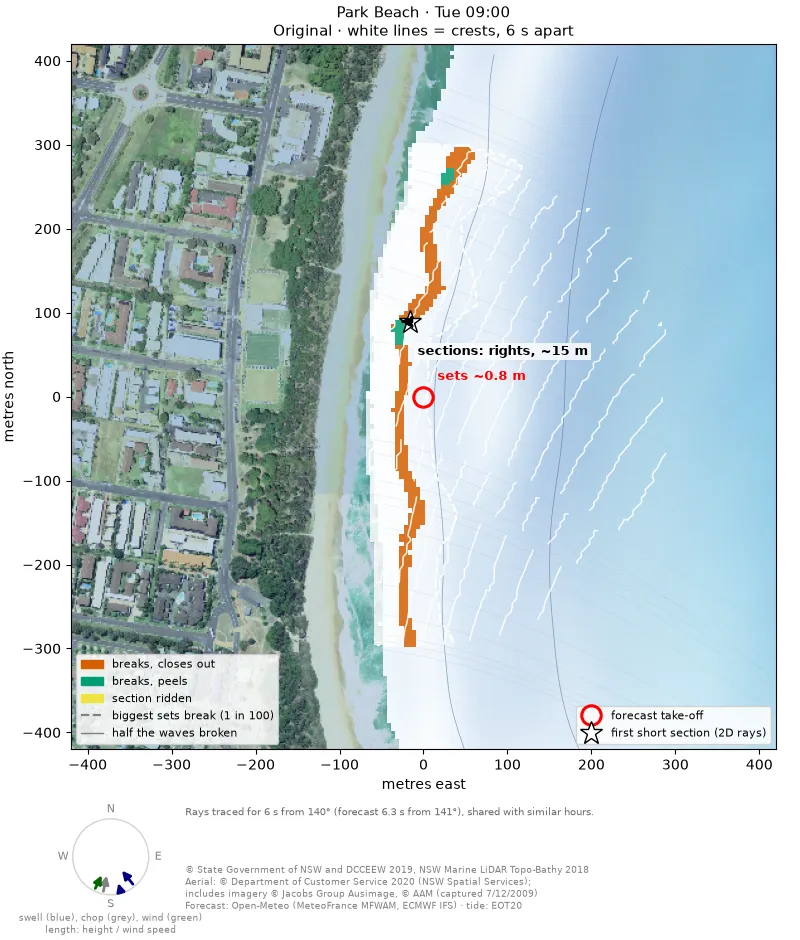
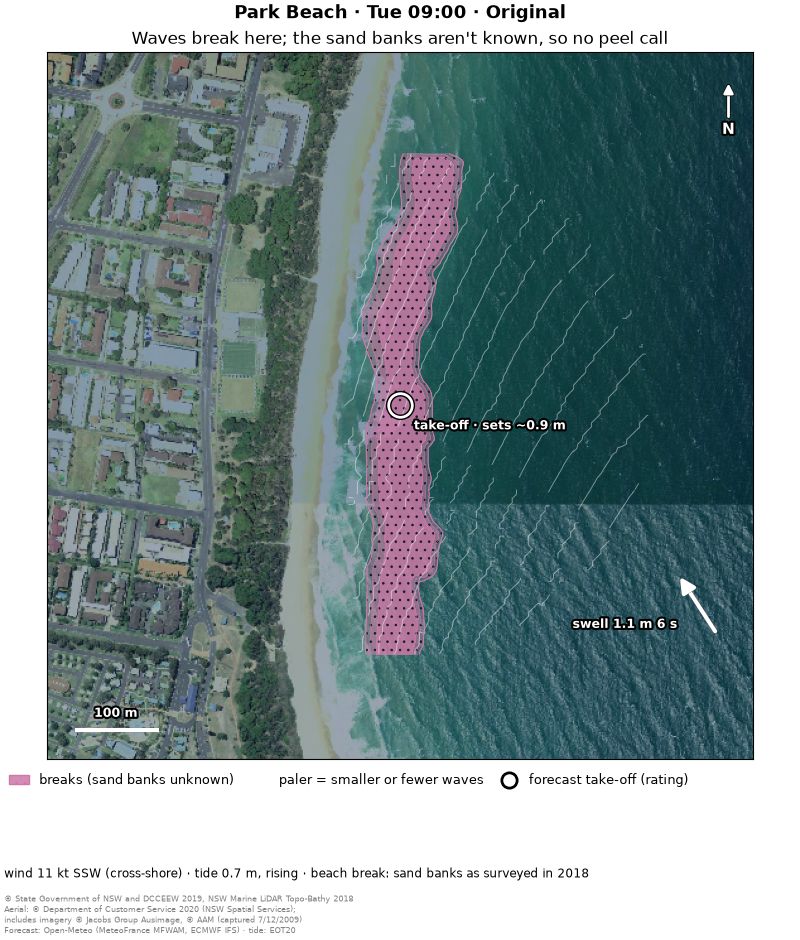
Where it breaks: the readable map design, its legend, and the physics view
Mullaway and Park Beach redrawn for Tue 17 Nov 9am in the new design (peels,
sections, close-outs, beach breaks with no peel call), the legend rewritten to
match, the old crest map shown as the physics view, and the new map pasted into
the iPad break-page shot.

diff --git a/layouts/where-it-breaks.html b/layouts/where-it-breaks.html
@@ -4,28 +4,28 @@
     <div class="hero-copy">
       <p class="eyebrow">Where it breaks</p>
       <h1>See the waves <span>before you paddle out.</span></h1>
-      <p class="lede">Every daylight hour at every break comes with a map of where the waves are expected to break. StokeRanker follows the forecast swell in over a laser survey of the seabed, so you can see where it peels, where it closes out, and where to sit.</p>
+      <p class="lede">Every daylight hour at every break comes with a map of where the waves are expected to break. StokeRanker follows the forecast swell in over a laser survey of the seabed, so you can see where it peels, which way, how far you’d ride, and where it closes out.</p>
       <div class="actions">{{ partial "cta.html" "Get early access ↗" }}<a class="ghost" href="#how">How it’s drawn <span aria-hidden="true">→</span></a></div>
       <ul class="chips" aria-label="At a glance"><li>All 17 breaks</li><li>Every daylight hour, 3 days ahead</li><li>Real wave physics</li></ul>
     </div>
     <figure class="hero-map">
-      {{ partial "map.html" (dict "name" "mullaway-tue-9am-sat" "width" 560 "eager" true "alt" "Wave map of Mullaway for Tuesday at 9am: white crest lines bend around the headland, orange marks where waves close out, and bluish-green sections peel off the point and along the beach. Sets about 0.7 m, short sections of rights.") }}
-      <figcaption>Mullaway, Tuesday 9am: sections peel off the point.</figcaption>
+      {{ partial "map.html" (dict "name" "mullaway-tue-9am-sat" "width" 560 "eager" true "alt" "Wave map of Mullaway for Tuesday at 9am on the aerial photo: a solid blue band where rights peel off the point for about 90 m, two shorter blue stretches up the beach, a left of about 40 m and a right of about 50 m, and hatched orange where most of the beach closes out. White arrows show the way each stretch peels, the forecast take-off is ringed at the point with sets about 0.7 m, and the swell arrow reads 1.1 m at 6 s.") }}
+      <figcaption>Mullaway, Tuesday 9am: rights peel off the point for up to about 90 m.</figcaption>
     </figure>
   </div>
   {{ partial "waves.html" . }}
 </section>
 
 <section class="section wrap">
-  <div class="section-heading centered"><p class="eyebrow">Same swell. Different beach.</p><h2>One swell, two stories.</h2><p>Tuesday at 9am, the same 6-second south-easterly reaches both beaches. Park Beach’s straight banks meet the crests nearly square on, so most of it closes out. At Mullaway the swell bends around the headland, and sections peel.</p></div>
+  <div class="section-heading centered"><p class="eyebrow">Same swell. Different beach.</p><h2>One swell, two stories.</h2><p>Tuesday at 9am, the same 6-second south-easterly reaches both beaches. At Mullaway it bends around the rocky point, and rights peel off it while the beach beside it closes out. Park Beach is open sand: the map shows where it breaks, but its banks move after every big swell, so it doesn’t guess which way they peel.</p></div>
   <div class="map-pair">
     <figure class="map-card">
-      {{ partial "map.html" (dict "name" "park-beach-tue-9am-sat" "width" 500 "alt" "Wave map of Park Beach for Tuesday at 9am: a long orange band along the beach where the waves close out, with only two short bluish-green peeling sections. Sets about 0.8 m.") }}
-      <figcaption><strong>Park Beach</strong> Almost all orange: it closes out along the beach.</figcaption>
+      {{ partial "map.html" (dict "name" "park-beach-tue-9am-sat" "width" 500 "alt" "Wave map of Park Beach for Tuesday at 9am: a dotted purple band along the beach where the waves break, with no peel call because the sand banks aren’t known. The forecast take-off is ringed in the middle, sets about 0.9 m.") }}
+      <figcaption><strong>Park Beach</strong> Dotted purple: it breaks along the beach, and the sand banks decide the rest.</figcaption>
     </figure>
     <figure class="map-card">
-      {{ partial "map.html" (dict "name" "mullaway-tue-9am-sat" "width" 500 "alt" "Wave map of Mullaway for Tuesday at 9am: crests wrap around the headland, with bluish-green peeling sections off the point and along the beach to the north.") }}
-      <figcaption><strong>Mullaway</strong> Bluish-green sections: it peels off the point.</figcaption>
+      {{ partial "map.html" (dict "name" "mullaway-tue-9am-sat" "width" 500 "alt" "Wave map of Mullaway for Tuesday at 9am: a solid blue band where rights peel off the point, with arrows showing the way it peels, and hatched orange along the beach where it closes out.") }}
+      <figcaption><strong>Mullaway</strong> Solid blue off the point: it peels. Hatched orange up the beach: it closes out.</figcaption>
     </figure>
   </div>
 </section>
@@ -41,7 +41,7 @@
     <ol class="how-steps">
       <li><span class="step">1</span><h3>Start with the forecast swell.</h3><p>Each hour’s main swell, its period and the direction it comes from, is taken from the marine forecast, out in deep water.</p></li>
       <li><span class="step">2</span><h3>Trace it over the seabed.</h3><p>Wave rays are traced in across a 5 m grid of the NSW Marine LiDAR seabed survey. Waves slow down in shallow water, so they bend towards banks and reefs, growing where they bunch up and shrinking where they spread out.</p></li>
-      <li><span class="step">3</span><h3>Find where it breaks.</h3><p>Where the water gets shallow enough, the waves break. A crest that meets the bank at an angle peels; one that hits it square on closes out. The map marks both, then picks the take-off and the section you’d ride.</p></li>
+      <li><span class="step">3</span><h3>Find where it breaks, and how.</h3><p>Where the water gets shallow enough, the waves break. A crest that meets the bank at an angle peels; one that hits it square on closes out. The map shades each stretch by how well it peels for your kind of surfing, fades it where the waves are small or few, and shows the way it peels and how far you’d ride.</p></li>
     </ol>
   </div>
 </section>
@@ -50,26 +50,45 @@
   <div class="row reverse row-legend">
     <div class="row-copy">
       <p class="eyebrow">Reading the map</p>
-      <h2>Every line means something.</h2>
+      <h2>Blue peels. Hatched closes out.</h2>
+      <p>The band is where surfable waves break, from where the biggest sets first break to where most waves are whitewater.</p>
       <ul class="legend">
-        <li><i class="sw sw-crest" aria-hidden="true"></i><span><strong>White lines</strong> wave crests, one wave period apart</span></li>
-        <li><i class="sw sw-close" aria-hidden="true"></i><span><strong>Orange</strong> breaks and closes out</span></li>
-        <li><i class="sw sw-peel" aria-hidden="true"></i><span><strong>Bluish green</strong> breaks and peels</span></li>
-        <li><i class="sw sw-ride" aria-hidden="true"></i><span><strong>Yellow</strong> the section you’d ride</span></li>
-        <li><i class="sw sw-dash" aria-hidden="true"></i><span><strong>Dashed line</strong> where the biggest sets break, about 1 in 100 waves</span></li>
-        <li><i class="sw sw-thin" aria-hidden="true"></i><span><strong>Thin line</strong> where half the waves have broken</span></li>
-        <li><i class="sw sw-ring" aria-hidden="true"></i><span><strong>Red ring</strong> the take-off the score is worked out for</span></li>
-        <li><i class="sw sw-star" aria-hidden="true">☆</i><span><strong>Star</strong> the first surfable section the map finds</span></li>
+        <li><i class="sw sw-peels" aria-hidden="true"></i><span><strong>Solid blue</strong> it peels</span></li>
+        <li><i class="sw sw-sections" aria-hidden="true"></i><span><strong>Light blue</strong> it peels in sections, between close-outs</span></li>
+        <li><i class="sw sw-closes" aria-hidden="true"></i><span><strong>Hatched orange</strong> it closes out</span></li>
+        <li><i class="sw sw-banks" aria-hidden="true"></i><span><strong>Dotted purple</strong> it breaks on a beach break, where the sand banks aren’t known</span></li>
+        <li><i class="sw sw-pale" aria-hidden="true"></i><span><strong>Paler</strong> smaller or fewer waves</span></li>
+        <li><i class="sw sw-arrow" aria-hidden="true">→</i><span><strong>Arrow</strong> the way it peels, with the ride length</span></li>
+        <li><i class="sw sw-ring" aria-hidden="true"></i><span><strong>Ring</strong> the take-off the score is worked out for</span></li>
       </ul>
-      <p class="small-print">The compass underneath shows the swell in blue, chop in grey, and the wind in green.</p>
+      <p class="small-print">A line across the top sums it up, and the swell arrow shows where the swell comes from, its height, and its period. Colours are from the Okabe-Ito colour-blind-safe palette, with hatching and dots so no meaning rests on colour alone.</p>
     </div>
     <figure class="row-shot map-card big">
-      {{ partial "map.html" (dict "name" "mullaway-tue-9am" "width" 620 "alt" "Mullaway wave map for Tuesday at 9am, with its legend: crests, closing-out and peeling sections, the forecast take-off ring, and the first short section star.") }}
+      {{ partial "map.html" (dict "name" "mullaway-tue-9am" "width" 620 "alt" "Mullaway wave map for Tuesday at 9am, with its title, Rights peel for up to about 90 m, but most of it closes out, and its key: peels, sections, closes out, paler for smaller or fewer waves, the way it peels with ride length, and the forecast take-off ring.") }}
     </figure>
   </div>
 </section>
 
 <section class="section tint">
+  <div class="wrap row">
+    <div class="row-copy">
+      <p class="eyebrow">The physics view</p>
+      <h2>Want the working?</h2>
+      <p>The physics view shows what the map is drawn from: the traced wave crests, the depths, both take-offs, and the numbers behind it. On the web, tap Physics view under the map. In the app, turn your phone sideways.</p>
+      <ul class="legend">
+        <li><i class="sw sw-crest" aria-hidden="true"></i><span><strong>White lines</strong> wave crests, one wave period apart</span></li>
+        <li><i class="sw sw-dash" aria-hidden="true"></i><span><strong>Dashed line</strong> where the biggest sets break, about 1 in 100 waves</span></li>
+        <li><i class="sw sw-thin" aria-hidden="true"></i><span><strong>Thin line</strong> where half the waves have broken</span></li>
+        <li><i class="sw sw-star" aria-hidden="true">☆</i><span><strong>Star</strong> the first surfable section the seabed trace finds</span></li>
+      </ul>
+    </div>
+    <figure class="row-shot map-card">
+      {{ partial "map.html" (dict "name" "mullaway-tue-9am-physics" "width" 720 "alt" "The physics view of Mullaway for Tuesday at 9am: white crest lines bending around the headland, the breaking band with dashed and thin lines, the take-offs, and a side panel of the swell, wind, tide, and ride numbers.") }}
+    </figure>
+  </div>
+</section>
+
+<section class="section">
   <div class="wrap row">
     <div class="row-copy">
       <p class="eyebrow">In the app</p>
@@ -84,14 +103,16 @@
   </div>
 </section>
 
-<section class="section wrap">
+<section class="section tint">
+  <div class="wrap">
   <div class="section-heading centered"><p class="eyebrow">Honest about it</p><h2>A forecast, not a photo.</h2></div>
   <div class="cards three">
-    <article class="card"><p class="kicker">Sand moves</p><h3>Banks shift.</h3><p>The seabed survey is from 2018. Sandbanks move after every big swell, so a bank on the map may have shifted since.</p></article>
+    <article class="card"><p class="kicker">Sand moves</p><h3>Banks shift.</h3><p>The seabed survey is from 2018, and sand banks move after every big swell. So on beach breaks the map shows where waves break but makes no call on peel.</p></article>
     <article class="card"><p class="kicker">Simplified</p><h3>Some things it can’t see.</h3><p>It doesn’t model waves wrapping into the lee of a headland, or currents, so sheltered corners can show less than turns up.</p></article>
     <article class="card"><p class="kicker">Checked</p><h3>Held up against the beach.</h3><p>Photos taken on the beach are marked up and compared with the maps, and the width of the surf zone is checked against satellite passes.</p></article>
   </div>
   <p class="shots-note">Maps show an example forecast for Tuesday 17 November 2026, not current conditions. Seabed: NSW Marine LiDAR Topo-Bathy 2018, © State Government of NSW and DCCEEW 2019. Aerial imagery © Department of Customer Service 2020.</p>
+  </div>
 </section>
 
 {{ partial "access.html" . }}

diff --git a/layouts/home.html b/layouts/home.html
@@ -58,7 +58,7 @@
 <section class="section tint">
   <div class="wrap row">
     <div class="row-copy"><p class="eyebrow">Every score has its reasons</p><h2>Open a break, see the working.</h2><p>Wave height at the take-off, wind, tide, and every swell in the water, the best session each day, and a map of where the waves are expected to break: wave crests traced in from the forecast swell over local seabed data.</p><a class="more" href="{{ "/where-it-breaks/" | relURL }}">How the wave maps are drawn <span aria-hidden="true">→</span></a></div>
-    <figure class="row-shot">{{ partial "device.html" (dict "name" "ipad-break" "width" 720 "alt" "StokeRanker break page on iPad for Mullaway on Tuesday at 9am: score 80, good, with 0.7 m sets peeling, a 14 knot south-south-westerly offshore, a 0.7 m rising tide, an hourly chart, and a satellite map of the headland showing wave crests and where they are expected to break and peel.") }}</figure>
+    <figure class="row-shot">{{ partial "device.html" (dict "name" "ipad-break" "width" 720 "alt" "StokeRanker break page on iPad for Mullaway on Tuesday at 9am: score 80, good, with 0.7 m sets peeling, a 14 knot south-south-westerly offshore, a 0.7 m rising tide, an hourly chart, and a map of the headland showing rights peeling off the point for about 90 m while most of the beach closes out.") }}</figure>
   </div>
   <p class="wrap shots-note">Screenshots show an example forecast, not current conditions.</p>
 </section>

diff --git a/assets/css/main.css b/assets/css/main.css
@@ -187,8 +187,13 @@ nav a{display:inline-flex;align-items:center;min-height:44px;color:inherit;text-
 .sw-close{background:#e07020}.sw-peel{background:#009e73}.sw-ride{background:var(--sun)}
 .sw-dash{background:repeating-linear-gradient(90deg,#777 0 8px,transparent 8px 13px) center/100% 2px no-repeat}
 .sw-thin{background:linear-gradient(#555,#555) center/100% 1px no-repeat}
-.sw-ring{width:18px;margin-inline:10px;border:3px solid #e41a1c;border-radius:50%}
+.sw-ring{width:18px;margin-inline:10px;border:3px solid var(--ink);border-radius:50%}
 .sw-star{font-size:1.3rem;line-height:1}
+.sw-peels{background:#0072b2}.sw-sections{background:#56b4e9}
+.sw-closes{background:repeating-linear-gradient(135deg,#1a1a1a 0 1.5px,transparent 1.5px 6px),#e69f00}
+.sw-banks{background:radial-gradient(circle,#1a1a1a 1px,transparent 1.5px) 0 0/6px 6px,#cc79a7}
+.sw-pale{background:linear-gradient(90deg,#0072b2,#0072b259)}
+.sw-arrow{font-size:1.4rem;font-weight:800;line-height:1}
 .small-print{margin-top:1.2rem;font-size:var(--fs-sm);color:var(--muted)}
 @media(max-width:1000px){
   .hero-grid{grid-template-columns:1fr;padding-block:56px 130px}
